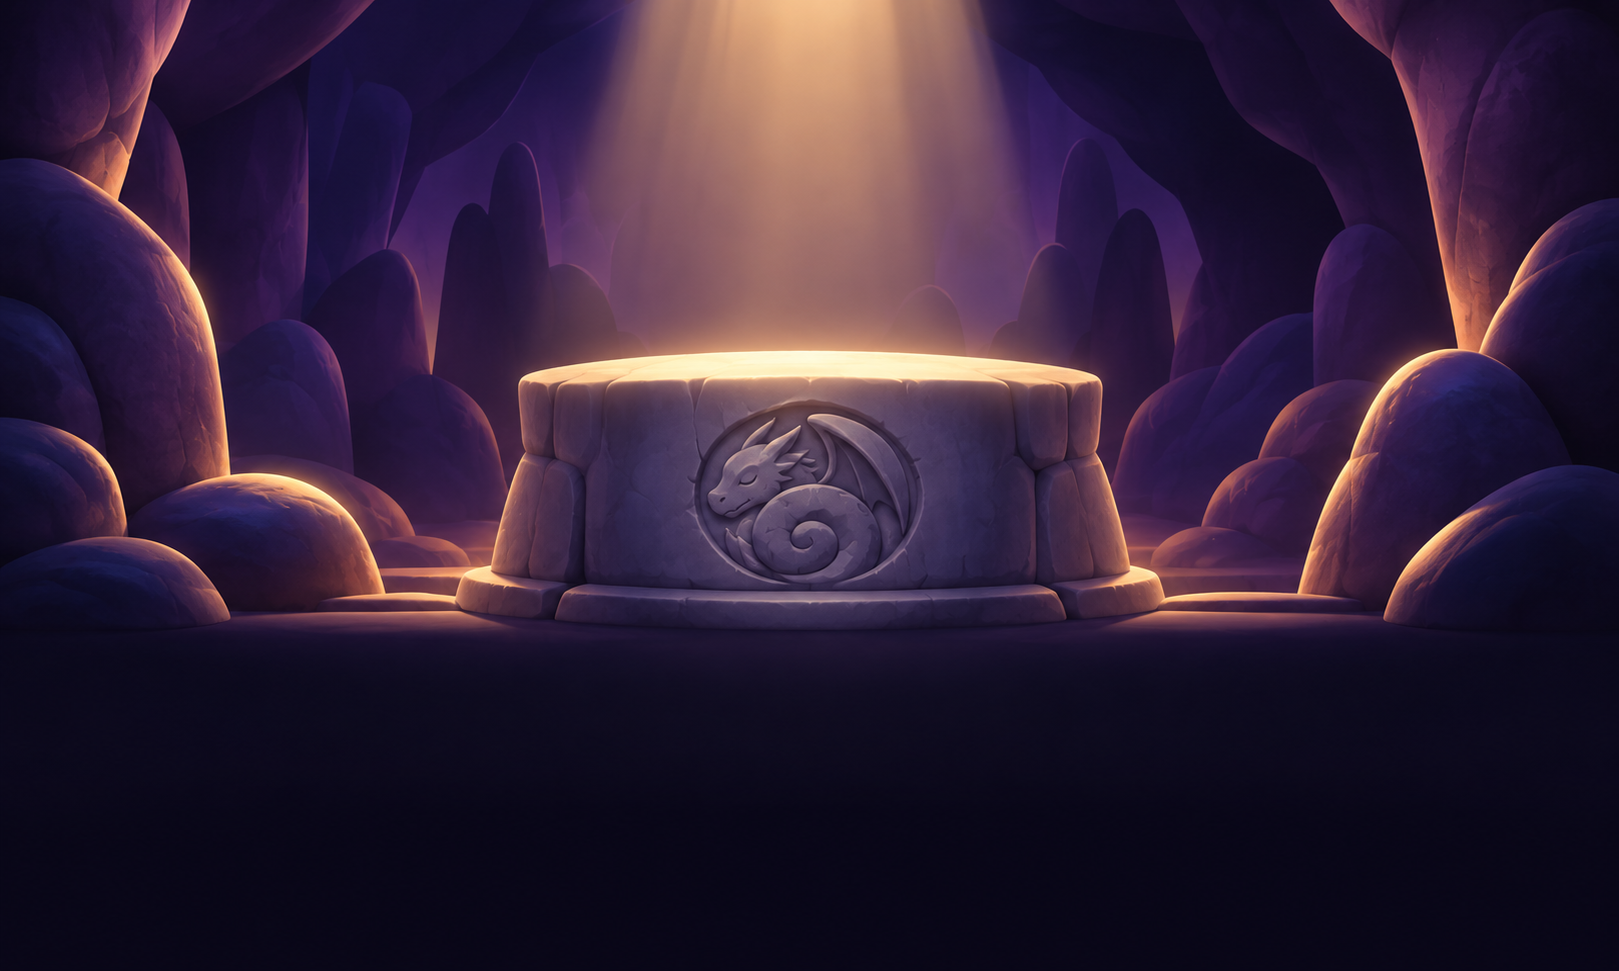
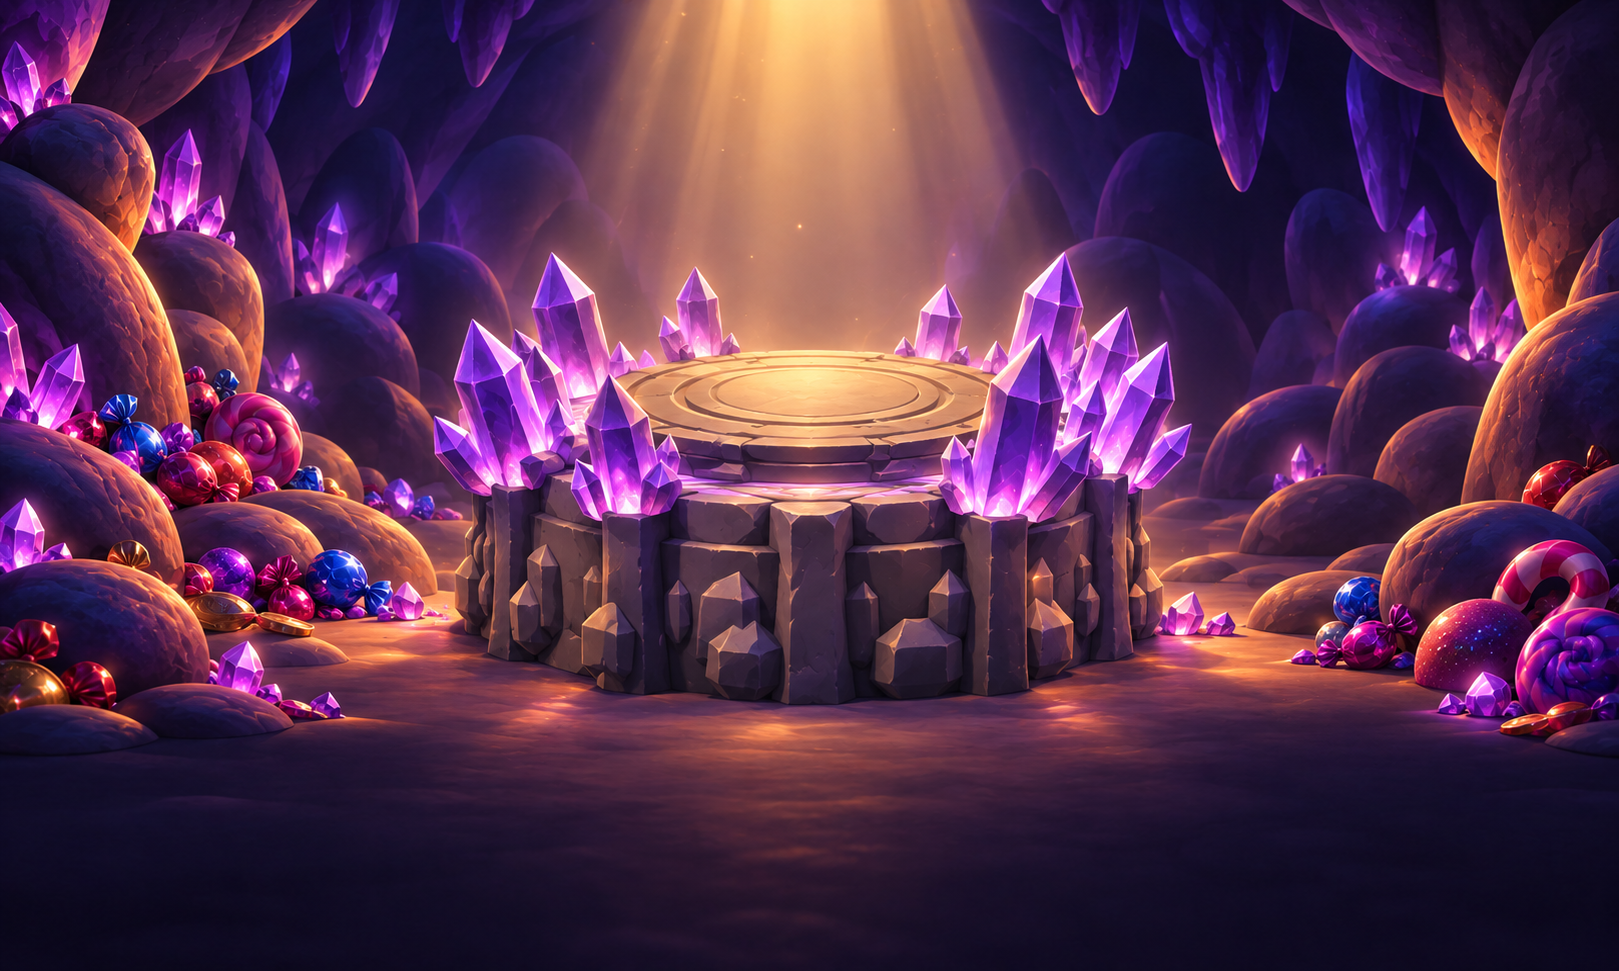
Wakestone repainted from the real plinth
- plinth/v7_render_back.png: OpenSCAD render of the v7 assembly (with the
  raised NFC platform) from the side away from the USB-C port.
- bg_wakestone: ChatGPT repaint from that render - carved stone drum with
  rock bosses, glowing amethyst clusters round the rim (gap at the front),
  the ringed platform under the light beam.
- Props rising from the Wakestone moved up onto its platform top: awaken
  crystal, chapter_d crystal, rare-star reveals (generator + manifest).
- Storybook page 5 uses the new scene.

diff --git a/site/index.html b/site/index.html
@@ -109,7 +109,7 @@
 
   <section class="page" aria-label="Page 5">
     <div class="page-art">
-      <img class="bg" src="img/bg_wakestone.webp" alt="" width="1280" height="768" loading="lazy">
+      <img class="bg" src="img/bg_wakestone.webp?v=2" alt="" width="1280" height="768" loading="lazy">
       <img class="sprite s-crystal s-rise" src="img/prop_crystal.webp" alt="A glowing crystal rising from the Wakestone" width="640" height="640" loading="lazy">
       <img class="sprite s-dragon-right s-float" src="img/butterscotch_surprise.webp" alt="Butterscotch, wide awake and surprised" width="640" height="600" loading="lazy">
     </div>

diff --git a/crystal_oracle/tools/gen_manifest_dragonglow.py b/crystal_oracle/tools/gen_manifest_dragonglow.py
@@ -92,6 +92,8 @@ STILLS = [
        "Leave the CENTRE of the picture open and empty (a floating dragon goes there) and keep the upper-left area "
        "around the lantern uncluttered.", BG, STYLE),
      {}),
+    # 2026-10-26: repainted by ChatGPT from a render of the real plinth (plinth/v7_render_back.png, seen from the
+    # side away from the USB-C port). Its platform top is at about y 190-205 of 480: props rising from it end there.
     ("bg_wakestone", "background", False, "MVP",
      "The Wakestone: a deeper chamber of the cave framed by big soft rounded rock shapes; in the exact centre a round, "
      "flat-topped stone pedestal with a carved curled-up sleeping-dragon swirl on its front, lit by one broad soft "
@@ -406,7 +408,7 @@ CLIPS = [
               "(the anchor) and the colour name."},
     {"id": "awaken", "priority": "MVP", "recipe": "layers", "seconds": 8, "loop": False, "variants": "colors",
      "bg": {"image": "bg_wakestone", "zoom": [1.0, 1.05]},
-     "layers": [{"sprite": "prop_crystal", "tint": "$color", "height": [80, 130, 130], "x": 400, "y": [300, 175, 165],
+     "layers": [{"sprite": "prop_crystal", "tint": "$color", "height": [80, 130, 130], "x": 400, "y": [125, 75, 65],
                  "t": [0, 8], "fade_in": 0.4, "bob": {"amp": 4, "period": 2}},
                 bs_side("butterscotch_surprise", t=[0.4, 3.2], y=[-280, 45], fade_in=0.2, fade_out=0.25),
                 bs_side("butterscotch_delight", t=[3.0, 8], fade_in=0.25)],
@@ -487,7 +489,7 @@ CLIPS = [
     {"id": "reveal_t2", "priority": "MVP", "recipe": "layers", "seconds": 2.5, "loop": False,
      "bg": {"image": "bg_wakestone"},
      "layers": [bs_side("butterscotch_surprise", fade_in=0.15, bob=(6, 2.5)),
-                {"sprite": "prop_star", "height": [50, 150, 140], "x": 400, "y": [285, 90, 100], "t": [0.2, 2.5],
+                {"sprite": "prop_star", "height": [50, 150, 140], "x": 400, "y": [155, 55, 65], "t": [0.2, 2.5],
                  "fade_in": 0.15, "spin": 1}],
      "anchor_layer": 0,
      "notes": "GOLDEN STAR (rare since 2026-10-26): the gold star rises out of the Wakestone and turns once; "
@@ -496,7 +498,7 @@ CLIPS = [
      "bg": {"image": "bg_wakestone", "zoom": [1.0, 1.06]},
      "layers": [bs_side("butterscotch_surprise", t=[0, 1.25], fade_in=0.15, fade_out=0.2, bob=(6, 2.5)),
                 bs_side("butterscotch_delight", t=[1.1, 2.5], fade_in=0.2, bob=(6, 2.5)),
-                {"sprite": "prop_star", "height": [50, 150, 140], "x": 400, "y": [285, 90, 100], "t": [0.1, 2.5],
+                {"sprite": "prop_star", "height": [50, 150, 140], "x": 400, "y": [155, 55, 65], "t": [0.1, 2.5],
                  "fade_in": 0.15, "rotate": [-8, 8, -8, 0]}],
      "anchor_layer": 0,
      "notes": "Variant 2 (with reveal_t2_2's line): the star wobbles up and Butterscotch's gasp turns into a beam."},
@@ -583,7 +585,7 @@ CLIPS = [
      "bg": {"image": "bg_wakestone"},
      # One crystal per colour, each fading in OVER the previous one (which stays opaque until it is covered, so the
      # crystal never turns see-through mid-change); the first fades in from the empty stone.
-     "layers": [{"sprite": "prop_crystal", "tint": c, "height": 130, "x": 400, "y": 165,
+     "layers": [{"sprite": "prop_crystal", "tint": c, "height": 130, "x": 400, "y": 70,
                  "t": [round(i * 4.5 / len(CRYSTAL_SPECS), 3),
                        4.5 if i == len(CRYSTAL_SPECS) - 1 else round((i + 1) * 4.5 / len(CRYSTAL_SPECS) + 0.25, 3)],
                  "fade_in": 0.4 if i == 0 else 0.25, "bob": {"amp": 4, "period": 2}}

diff --git a/crystal_oracle/assets/ASSET-STATUS.md b/crystal_oracle/assets/ASSET-STATUS.md
@@ -1,6 +1,6 @@
 # Asset status - DRAGONGLOW - The Sleepy Candy Dragon
 
-Generated 2026-10-26 19:03 by `tools/build_assets.py` from `assets/manifest.json` (output: `sd_card`). Regenerated by every run - don't edit.
+Generated 2026-10-26 19:15 by `tools/build_assets.py` from `assets/manifest.json` (output: `sd_card`). Regenerated by every run - don't edit.
 
 States: **REAL** = built from your source file; **PLACEHOLDER** = test card / synth sound / Windows TTS (`--test-clips`, `--placeholders`); **MISSING** = nothing on the card - the firmware falls back to a built-in animation / chime (or silence for voice).
 
@@ -83,33 +83,33 @@ States: **REAL** = built from your source file; **PLACEHOLDER** = test card / sy
 |---|---|---|---|---|---|---|
 | attract | MVP | layers | bg bg_cave, butterscotch_sleep, butterscotch_peek, butterscotch_sleep, snuffwic~ | oracle/clips/attract.omj | REAL | 156 fr, 12.0 s, max 76.9 KB, 11.59 MB total, q7 |
 | absorb | MVP | layers | bg bg_cave, butterscotch_peek, butterscotch_surprise | oracle/clips/absorb.omj | REAL | 13 fr, 1.0 s, max 76.2 KB, 985.8 KB total, q7 |
-| awaken | MVP | layers | bg bg_wakestone, prop_crystal, butterscotch_surprise, butterscotch_delight | oracle/clips/awaken.omj | REAL | 104 fr, 8.0 s, max 28.6 KB, 2.63 MB total, q5 |
-| awaken_1 | MVP | layers | bg bg_wakestone, prop_crystal, butterscotch_surprise, butterscotch_delight | oracle/clips/awaken_1.omj | REAL | 104 fr, 8.0 s, max 28.1 KB, 2.58 MB total, q5 |
-| awaken_2 | MVP | layers | bg bg_wakestone, prop_crystal, butterscotch_surprise, butterscotch_delight | oracle/clips/awaken_2.omj | REAL | 104 fr, 8.0 s, max 28.5 KB, 2.62 MB total, q5 |
-| awaken_3 | MVP | layers | bg bg_wakestone, prop_crystal, butterscotch_surprise, butterscotch_delight | oracle/clips/awaken_3.omj | REAL | 104 fr, 8.0 s, max 28.6 KB, 2.63 MB total, q5 |
+| awaken | MVP | layers | bg bg_wakestone, prop_crystal, butterscotch_surprise, butterscotch_delight | oracle/clips/awaken.omj | REAL | 104 fr, 8.0 s, max 58.0 KB, 5.68 MB total, q5 |
+| awaken_1 | MVP | layers | bg bg_wakestone, prop_crystal, butterscotch_surprise, butterscotch_delight | oracle/clips/awaken_1.omj | REAL | 104 fr, 8.0 s, max 57.5 KB, 5.63 MB total, q5 |
+| awaken_2 | MVP | layers | bg bg_wakestone, prop_crystal, butterscotch_surprise, butterscotch_delight | oracle/clips/awaken_2.omj | REAL | 104 fr, 8.0 s, max 57.9 KB, 5.67 MB total, q5 |
+| awaken_3 | MVP | layers | bg bg_wakestone, prop_crystal, butterscotch_surprise, butterscotch_delight | oracle/clips/awaken_3.omj | REAL | 104 fr, 8.0 s, max 57.8 KB, 5.66 MB total, q5 |
 | greet | MVP | layers | bg bg_cave, butterscotch_delight | oracle/clips/greet.omj | REAL | 52 fr, 4.0 s, max 76.0 KB, 3.85 MB total, q7 |
 | charge | MVP | layers | bg bg_cave, butterscotch_base | oracle/clips/charge.omj | REAL | 52 fr, 4.0 s, max 76.8 KB, 3.88 MB total, q7 |
 | reveal_t0_1 | MVP | layers | bg bg_cave, butterscotch_surprise, butterscotch_giggle, snuffwick_chicken, snuf~ | oracle/clips/reveal_t0_1.omj | REAL | 32 fr, 2.5 s, max 76.8 KB, 2.38 MB total, q7 |
 | reveal_t0_2 | MVP | layers | bg bg_cave, snuffwick_base, butterscotch_base, butterscotch_puff, butterscotch_~ | oracle/clips/reveal_t0_2.omj | REAL | 32 fr, 2.5 s, max 78.1 KB, 2.41 MB total, q7 |
 | reveal_t0_3 | MVP | layers | bg_cave, bg_cave, butterscotch_surprise, butterscotch_puff, butterscotch_giggle~ | oracle/clips/reveal_t0_3.omj | REAL | 32 fr, 2.5 s, max 76.7 KB, 1.67 MB total, q7 |
 | reveal_t1 | MVP | layers | bg bg_cave, butterscotch_delight, prop_coin | oracle/clips/reveal_t1.omj | REAL | 32 fr, 2.5 s, max 77.5 KB, 2.39 MB total, q7 |
-| reveal_t2 | MVP | layers | bg bg_wakestone, butterscotch_surprise, prop_star | oracle/clips/reveal_t2.omj | REAL | 32 fr, 2.5 s, max 31.0 KB, 905.6 KB total, q5 |
+| reveal_t2 | MVP | layers | bg bg_wakestone, butterscotch_surprise, prop_star | oracle/clips/reveal_t2.omj | REAL | 32 fr, 2.5 s, max 60.8 KB, 1.83 MB total, q5 |
 | reveal_t3 | MVP | layers | bg bg_starburst, prop_gem, butterscotch_delight | oracle/clips/reveal_t3.omj | REAL | 39 fr, 3.0 s, max 26.1 KB, 925.0 KB total, q5 |
 | replay | MVP | layers | bg bg_cave, butterscotch_wink (or butterscotch_peek) | oracle/clips/replay.omj | REAL | 52 fr, 4.0 s, max 76.7 KB, 3.88 MB total, q7 |
 | nocrystal | MVP | layers | bg bg_cave, butterscotch_puff, butterscotch_delight | oracle/clips/nocrystal.omj | REAL | 46 fr, 3.5 s, max 76.3 KB, 3.41 MB total, q7 |
 | sleepy | MVP | layers | bg bg_cave, butterscotch_yawn (or butterscotch_sleep) | oracle/clips/sleepy.omj | REAL | 52 fr, 4.0 s, max 76.7 KB, 3.88 MB total, q7 |
 | goodbye | MVP | layers | bg bg_cave, butterscotch_wave (or butterscotch_delight) | oracle/clips/goodbye.omj | REAL | 21 fr, 1.6 s, max 80.0 KB, 1.61 MB total, q7 |
 | milestone | MVP | layers | bg bg_starburst, butterscotch_delight | oracle/clips/milestone.omj | REAL | 39 fr, 3.0 s, max 23.6 KB, 902.5 KB total, q5 |
-| circle | MVP | layers | bg bg_wakestone, butterscotch_giggle | oracle/clips/circle.omj | REAL | 32 fr, 2.5 s, max 30.2 KB, 890.9 KB total, q5 |
+| circle | MVP | layers | bg bg_wakestone, butterscotch_giggle | oracle/clips/circle.omj | REAL | 32 fr, 2.5 s, max 56.3 KB, 1.72 MB total, q5 |
 | attract_full | NICE | layers | bg bg_cave_lit (or bg_cave), butterscotch_sleep, butterscotch_delight (or butte~ | oracle/clips/attract_full.omj | REAL | 156 fr, 12.0 s, max 80.9 KB, 12.22 MB total, q7 |
 | greet_r5 | NICE | layers | bg bg_cave, butterscotch_delight, prop_hat | oracle/clips/greet_r5.omj | REAL | 46 fr, 3.5 s, max 77.0 KB, 3.43 MB total, q7 |
-| reveal_t2_2 | NICE | layers | bg bg_wakestone, butterscotch_surprise, butterscotch_delight, prop_star | oracle/clips/reveal_t2_2.omj | REAL | 32 fr, 2.5 s, max 30.4 KB, 919.6 KB total, q5 |
+| reveal_t2_2 | NICE | layers | bg bg_wakestone, butterscotch_surprise, butterscotch_delight, prop_star | oracle/clips/reveal_t2_2.omj | REAL | 32 fr, 2.5 s, max 59.4 KB, 1.81 MB total, q5 |
 | keeper | NICE | layers | bg bg_cave, butterscotch_wink (or butterscotch_peek) | oracle/clips/keeper.omj | REAL | 32 fr, 2.5 s, max 76.0 KB, 2.36 MB total, q7 |
 | moonfull | NICE | layers | bg bg_cave, butterscotch_delight, butterscotch_giggle, snuffwick_sneeze (or snu~ | oracle/clips/moonfull.omj | REAL | 91 fr, 7.0 s, max 81.0 KB, 6.97 MB total, q7 |
 | chapter_a | NICE | layers | bg bg_cave_lit (or bg_cave), butterscotch_sleep, butterscotch_delight | oracle/clips/chapter_a.omj | REAL | 58 fr, 4.5 s, max 80.7 KB, 4.53 MB total, q7 |
 | chapter_b | NICE | layers | bg bg_cave_lit (or bg_cave), bg_cave, butterscotch_sleep, snuffwick_base, snuff~ | oracle/clips/chapter_b.omj | REAL | 65 fr, 5.0 s, max 80.7 KB, 4.98 MB total, q7 |
 | chapter_c | NICE | kenburns | chapter_egg | oracle/clips/chapter_c.omj | REAL | 58 fr, 4.5 s, max 49.6 KB, 2.70 MB total, q5 |
-| chapter_d | NICE | layers | bg bg_wakestone, prop_crystal, prop_crystal, prop_crystal | oracle/clips/chapter_d.omj | REAL | 58 fr, 4.5 s, max 21.9 KB, 1.23 MB total, q5 |
+| chapter_d | NICE | layers | bg bg_wakestone, prop_crystal, prop_crystal, prop_crystal | oracle/clips/chapter_d.omj | REAL | 58 fr, 4.5 s, max 54.6 KB, 3.08 MB total, q5 |
 | chapter_e | NICE | layers | bg bg_cave, butterscotch_peek, butterscotch_delight | oracle/clips/chapter_e.omj | REAL | 58 fr, 4.5 s, max 79.9 KB, 4.37 MB total, q7 |
 | chapter_f | NICE | layers | bg bg_cave, butterscotch_peek, snuffwick_sock (or snuffwick_base) | oracle/clips/chapter_f.omj | REAL | 65 fr, 5.0 s, max 77.1 KB, 4.80 MB total, q7 |
 

diff --git a/PROJECT-NOTES.md b/PROJECT-NOTES.md
@@ -44,6 +44,15 @@ Read `crystal_oracle/README.md` first, then `crystal_oracle/docs/DESIGN.md` (con
   2027-01-06) → stills from ChatGPT + our ffmpeg "layers" animator; voice from ElevenLabs/OpenAI TTS.
 
 ### Changelog
+- **2026-10-26 (Wakestone = the real plinth)** — owner: the crystal-glows-to-wake-the-dragon scenes should
+  show the actual plinth. Rendered the v7 assembly (`plinth/nfc_platform.scad`, part `assembly`) from the
+  side AWAY from the USB-C port (`--camera=0,0,35,68,0,180,380`, saved as `plinth/v7_render_back.png`) and
+  ChatGPT (Codex, `--ref` that render + the old `bg_wakestone` + `bg_cave`) repainted `bg_wakestone` as a
+  storybook version: carved grey stone drum with rock bosses, glowing amethyst clusters round the rim (gap at
+  the front), the ringed platform on top under the light beam. Its platform top sits at y ~190–205 of 480,
+  so the props were moved up to stand on it: awaken crystal y [125,75,65], chapter_d crystal y 70, rare-star
+  reveals y [155,55,65] (generator). Both builds rebuilt (awaken×4, chapter_d, circle, reveal_t2/_2);
+  storybook page 5 image replaced (`?v=2`). The previous still is in git (commit ea899a4 and earlier).
 - **2026-10-26 (iPad card build: clean sprite edges)** — owner: "the edges of the elements are not
   clean". Not the art (the PNGs have clean alpha) and not the sprite scaling (checked): it was the TF-card
   JPEG profile — 4:2:0 chroma + `-q:v` raised to 7 to fit the firmware's 96 KB/frame cap smeared a dark,
